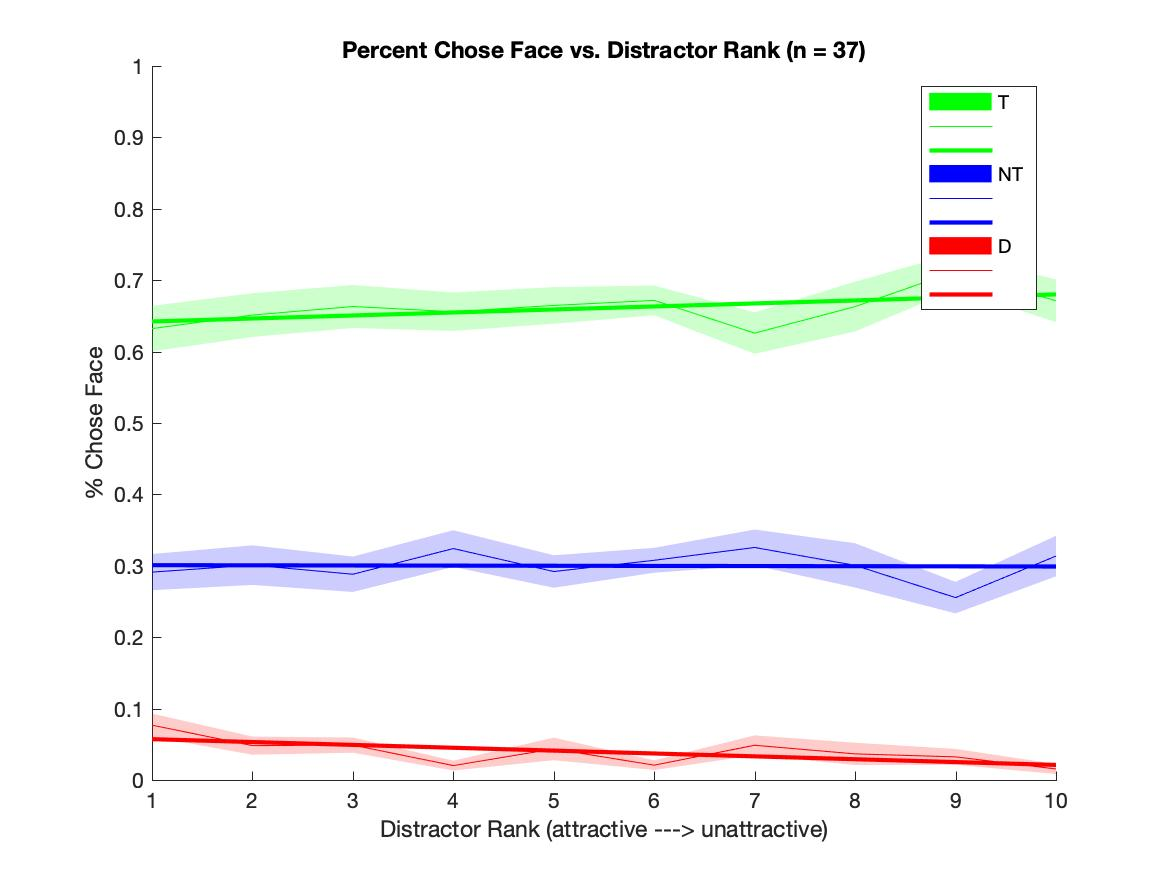
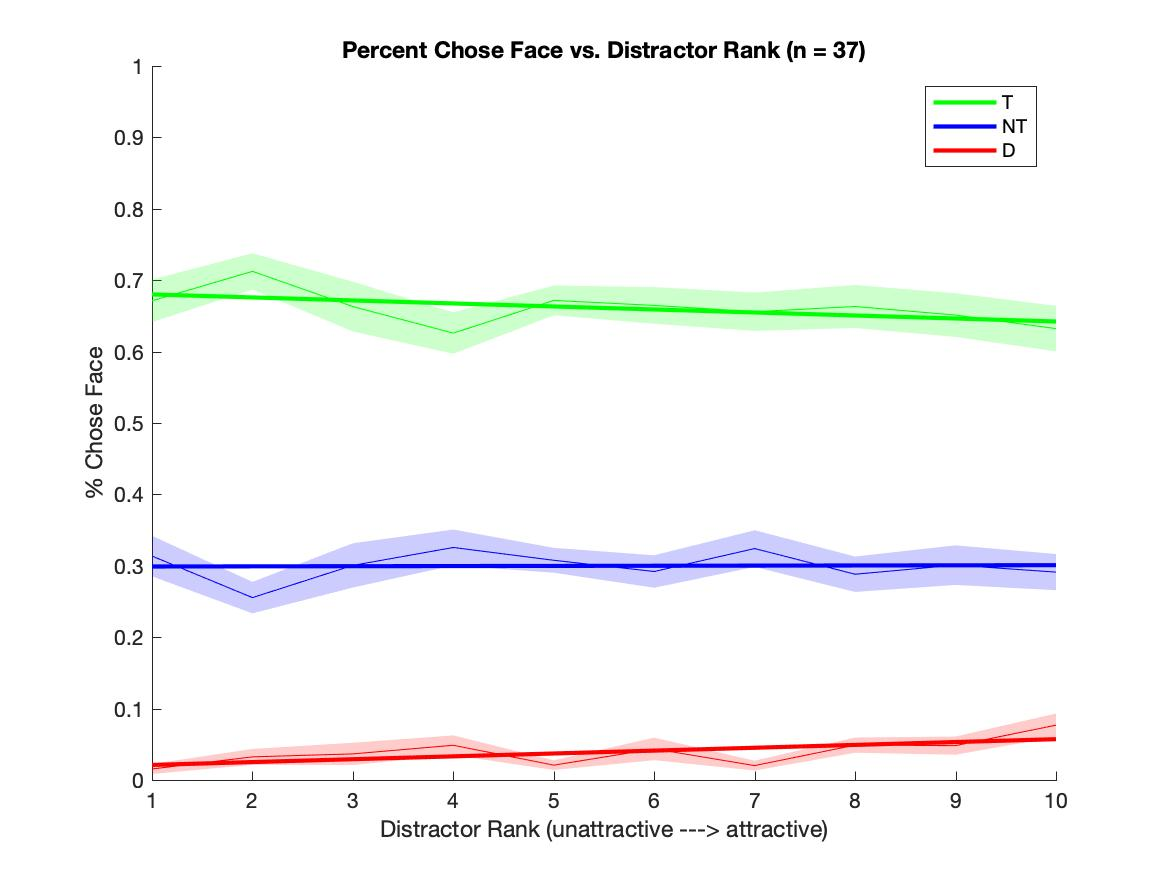
Modified plotting for ASSC poster

diff --git a/data_analysis/plot_percentChosen.m b/data_analysis/plot_percentChosen.m
@@ -44,7 +44,7 @@ function plot_percentChosen(percentChosen, saveFigure)
         addpath([pwd '/legappend']);
 
         % Plot
-        boundedline(1:10, mean_percentChosen, se_percentChosen,...
+        boundedline(flip(1:10), mean_percentChosen, se_percentChosen,...
             'alpha',...
             'cmap', cmap);
         
@@ -52,7 +52,7 @@ function plot_percentChosen(percentChosen, saveFigure)
         ylim([0, 1]);
         
         % Add in axis labels and title
-        xlabel('Distractor Rank (attractive ---> unattractive)');
+        xlabel('Distractor Rank (unattractive ---> attractive)');
         ylabel('% Chose Face');
         title(['Percent Chose Face vs. Distractor Rank (n = ' num2str(nSubjects) ')'])
 
@@ -84,15 +84,15 @@ function plot_percentChosen(percentChosen, saveFigure)
         % ------ Plot Linear Regression ------
         
         predictedY = X*linReg;
-        plot(x, predictedY, 'lineWidth', 2, 'Color', cmap);
+        p(i) = plot(flip(x), predictedY, 'lineWidth', 2, 'Color', cmap);
         
         hold on;
-        
-        % Add in the legend
-        legend({'T','','','NT','','','D','',''});
     
     end % End of for field loop
-
+        
+    % Add in the legend
+    legend([p(1) p(2) p(3)], faceTypes{1}, faceTypes{2}, faceTypes{3});
+    
     
     % ------ Saving ------
     
